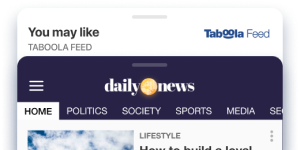
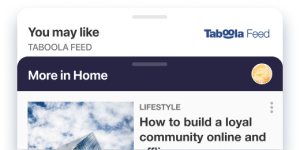
Show header lite in homepage experience (#74)

diff --git a/experiences/homepage/homepage.html b/experiences/homepage/homepage.html
@@ -85,46 +85,25 @@
 			-webkit-font-smoothing: antialiased;
 		}
 
-		.mrf-header__wrapper {
-			display: flex;
-			flex-direction: column;
+		.mrf-headerLite__wrapper {
 			background: #282346;
-		}
-
-		.mrf-header__main {
-			display: grid;
-			height: 50px;
-		}
-
-		.mrf-header__main img {
-			grid-area: 1 / 1 / 2 / 2;
-		}
-
-		.mrf-menu {
-			margin: 10px;
-		}
-
-		.mrf-logo {
-			place-self: center;
-		}
-
-		.mrf-header__navigation {
 			display: flex;
-			flex-wrap: nowrap;
-			overflow-x: auto;
+			justify-content: space-between;
+			align-items: center;
+			padding: 0 15px;
+			height: 50px;
+			box-sizing: border-box;
 		}
 
-		.mrf-section {
-			color: #fff;
-			text-transform: uppercase;
-			padding: 0 10px 2px;
-			font-size: .8em;
-			font-weight: 300;
-		}
-
-		.mrf-section.active {
-			border-bottom: 2px solid;
-			font-weight: 500;
+		.mrf-headerLite__title {
+			color: white;
+			text-align: left;
+			font-weight: 700;
+			font-size: 18px;
+			white-space: nowrap;
+			text-overflow: ellipsis;
+			overflow: hidden;
+			flex: 0 70%;
 		}
 
 		.mrf-balcon {
@@ -238,18 +217,10 @@
 </head>
 
 <body>
-	<header class="mrf-header__wrapper">
-		<div class="mrf-header__main">
-			<img class="mrf-menu" src="https://${CURRENT_HOSTNAME}/assets/experiences/burger.svg">
-			<img class="mrf-logo" height="40" src="https://${CURRENT_HOSTNAME}/assets/experiences/dailynews.png">
-		</div>
-		<div class="mrf-header__navigation">
-			<span class="mrf-section active">Home</span>
-			<span class="mrf-section">Politics</span>
-			<span class="mrf-section">Society</span>
-			<span class="mrf-section">Sports</span>
-			<span class="mrf-section">Media</span>
-			<span class="mrf-section">Library</span>
+	<header>
+		<div class="mrf-headerLite__wrapper">
+			<span class="mrf-headerLite__title">More in Home</span>
+			<img height="28" width="28" src="https://${CURRENT_HOSTNAME}/assets/experiences/dailynews-icon.png">
 		</div>
 	</header>
 	<div>
